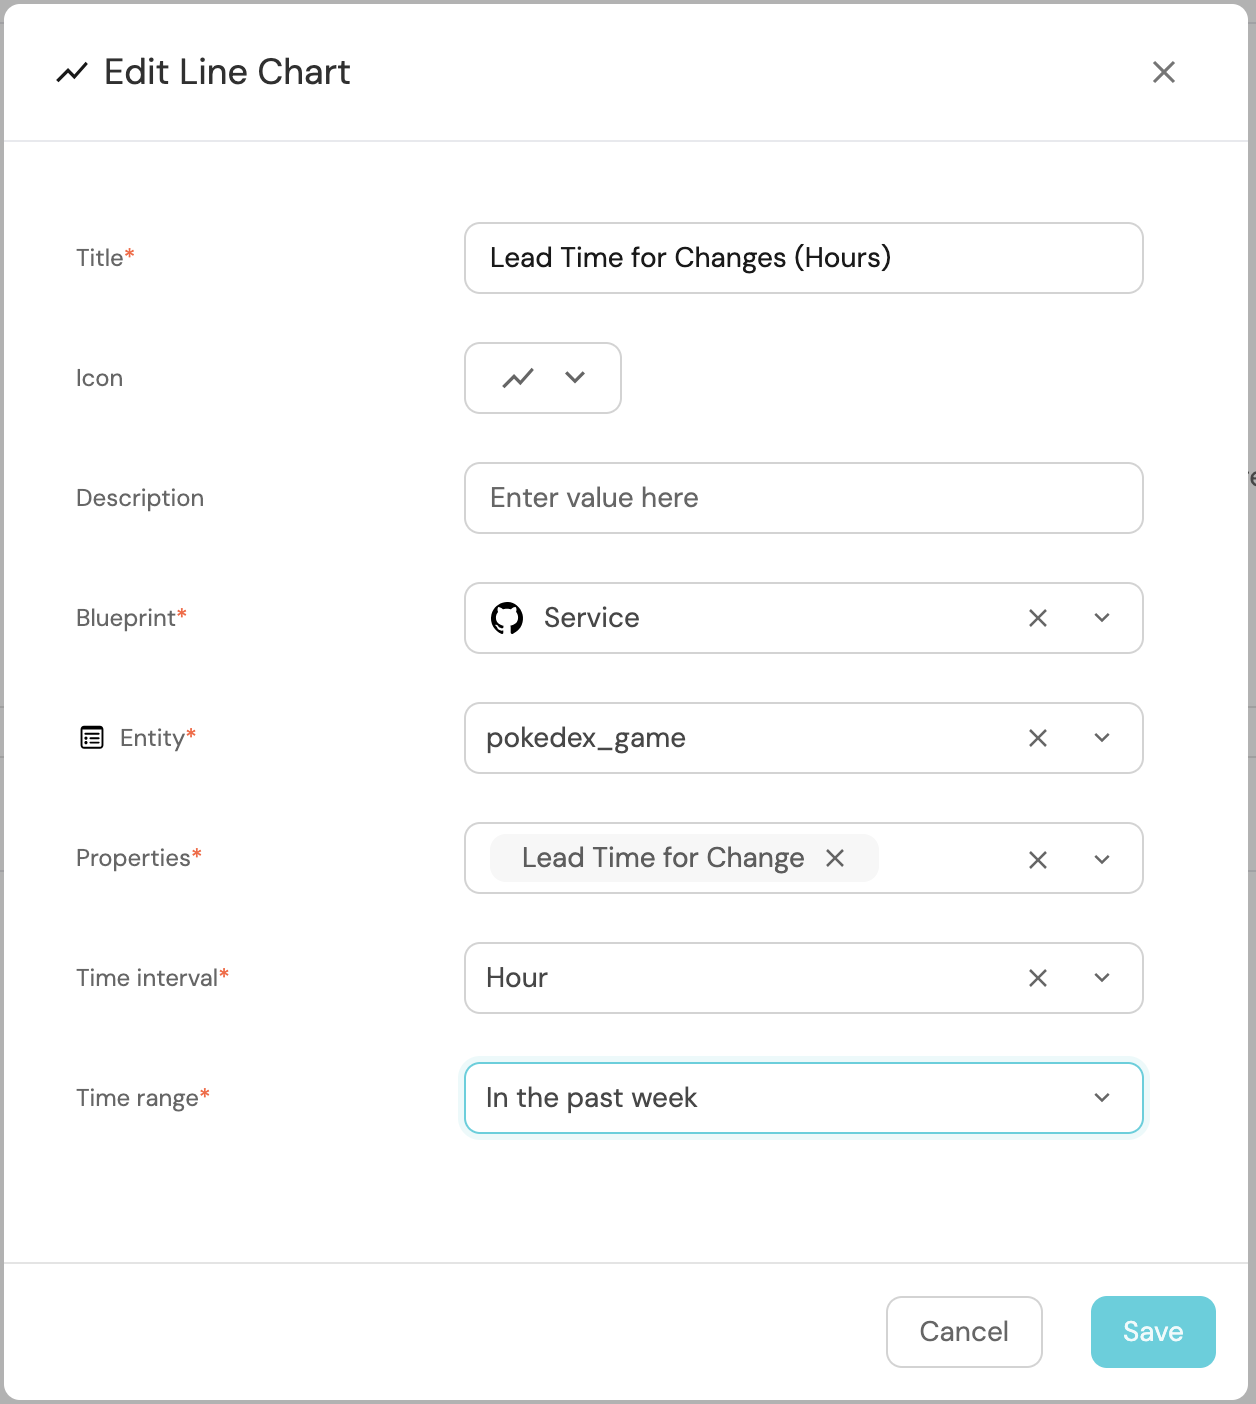
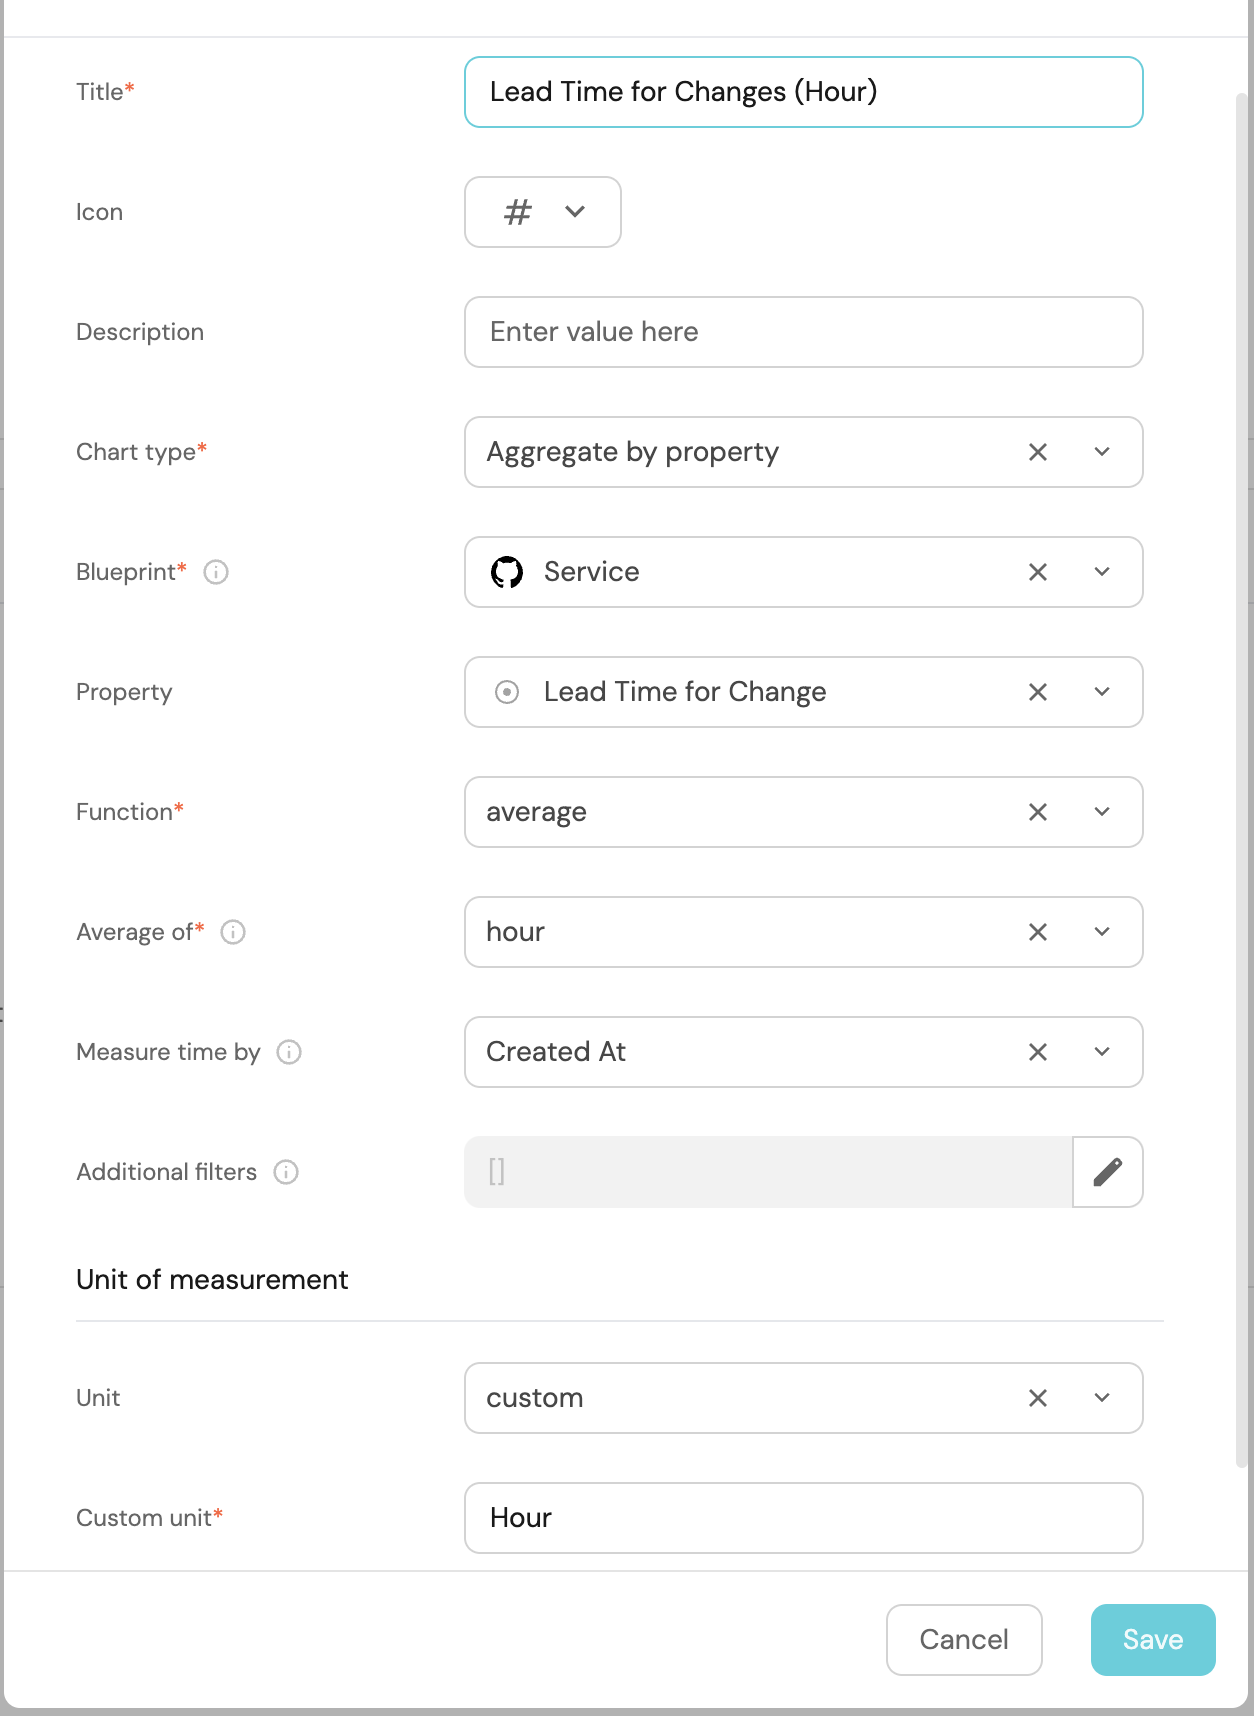
minor fixed in the review to remove discrepancies

diff --git a/docs/guides/all/setup-dora-metrics.md b/docs/guides/all/setup-dora-metrics.md
@@ -831,8 +831,19 @@ If you want to track these metrics at higher levels, such as **team** or **domai
 :::
 
 ###  Aggregation
-
 The metrics in this guide are aggregated monthly. However, you can easily switch the timeframes to weekly, hourly, etc., based on your requirements.
+
+:::tip Adding Aggregation to Blueprints
+
+Before proceeding, follow these steps to add the aggregation and calculation properties to the **Service Blueprint**:
+
+1. Go to the [Builder](https://app.getport.io/settings/data-model) in your Port portal
+2. Locate and select your **Service** blueprint.
+3. Click the `{...}` button in the top right corner, and choose **Edit JSON**
+4. Insert the respective **aggregation** or **calculation properties** under the `aggregationProperties` or `calculationProperties` section in the Service blueprint's JSON schema.
+5. Save your changes to apply the new aggregation configuration.
+:::
+
 
 <Tabs groupId="metrics" defaultValue="df" values={[
 { label: 'Deployment Frequency', value: 'df' },
@@ -1077,16 +1088,14 @@ This will create a new empty dashboard. Let's get ready-to-add widgets
 <summary><b>Setup Change Lead Time Widget</b></summary>
 
 1. Click `+ Widget` and select **Number Chart**
-2. Title: `Lead Time for Changes (Monthly)`, (add LineChart icon)
+2. Title: `Lead Time for Changes (Hour)`, (add LineChart icon)
 3. Select `Aggregate by property` and choose **Service** as the **Blueprint**
-4. Select `average` as the function and choose `Month` for **Average of** and `createdAt` as the **Measure Time By**
-5. Select an `Entity` and choose `Lead Time for Change` as the **Property**
-6. Select the `Month` time interval and preferred time range
-7. Add custom Unit for **Unit of Measurement** (e.g., days)
+4. Select `average` as the function and choose `Hour` for **Average of** and `createdAt` as the **Measure Time By**
+5. Add custom Unit for **Unit of Measurement** (Hours)
 
    <img src="/img/guides/leadTimeForChangesDoraMetrics.png"  width="50%"/>
    
-8. Click `Save`.
+6. Click `Save`
 
 </details>
 
@@ -1102,7 +1111,7 @@ This will create a new empty dashboard. Let's get ready-to-add widgets
 
    <img src="/img/guides/changeLeadTimeOverTimeDM.png"  width="50%"/>
 
-6. Click `Save`.
+6. Click `Save`
 
 </details>
 
@@ -1118,7 +1127,7 @@ This will create a new empty dashboard. Let's get ready-to-add widgets
 
    <img src="/img/guides/deploymentFrequencyOverTime.png" width="50%"/>
 
-6. Click `Save`.
+6. Click `Save`
 </details>
 
 :::tip Metric widget groupings
